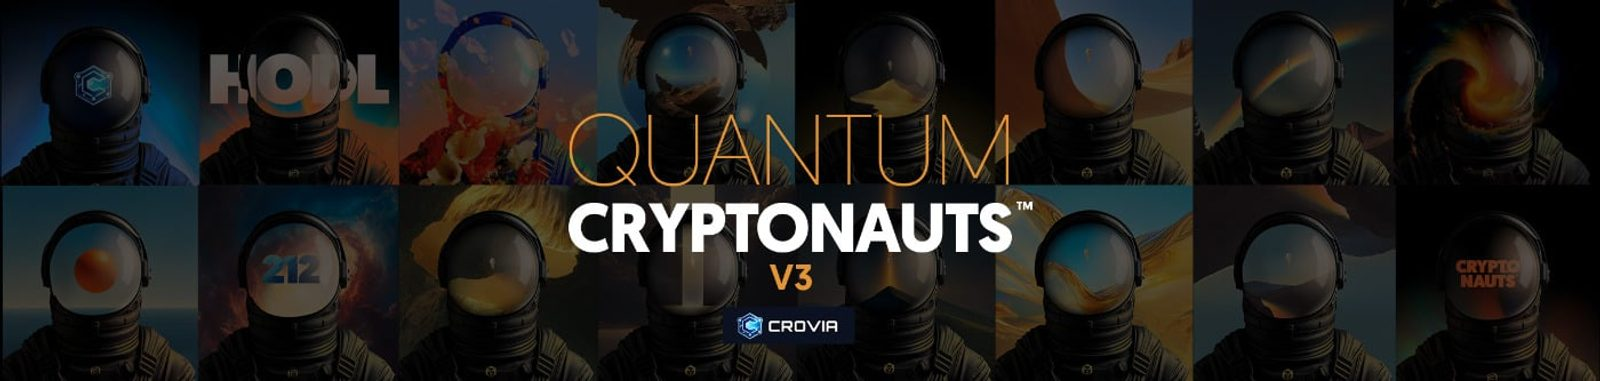
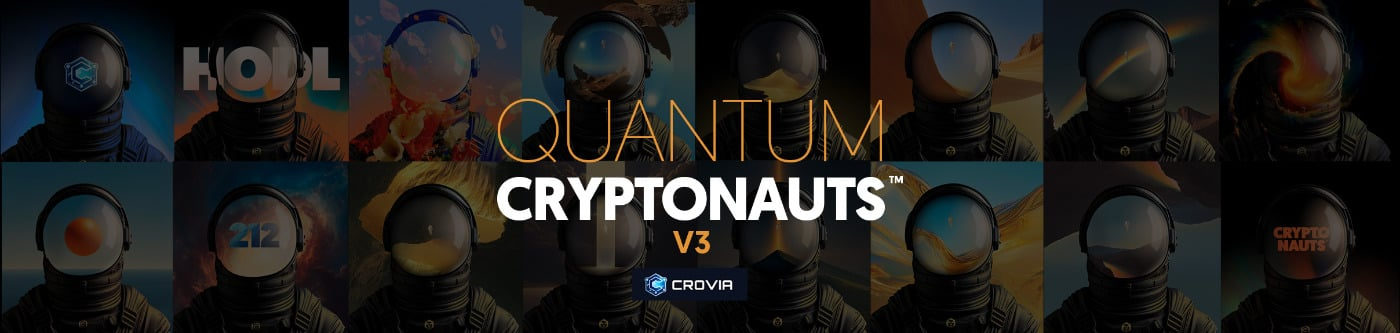
V3 (Crovia) : visuels officiels haute résolution + cache-busting
- assets/v3-logo.jpg : avatar officiel Crovia en 1024x1024 (17Ko -> 30Ko)
- assets/v3-banner.jpg : bannière officielle Crovia (re-téléchargée)
- Ajout de ?v=2 sur toutes les références (index.html Sales Bot,
  Test.js unshift, data.json) pour forcer le rafraîchissement du cache
  navigateur/CDN — l'ancienne image en cache empêchait de voir la mise à jour.

diff --git a/index.html b/index.html
@@ -3295,9 +3295,9 @@ body::after {
       const byId = {}; assets.forEach(a => { byId[a.i] = a; });
       V3_SALES.slice(0, 12).forEach(m => {
         const a = byId[m.t] || {};
-        const thumb = a.c ? ('https://images.weserv.nl/?url=ipfs.io/ipfs/' + a.c + '&w=120&h=120&fit=cover&q=70&output=jpg') : 'assets/v3-logo.jpg';
+        const thumb = a.c ? ('https://images.weserv.nl/?url=ipfs.io/ipfs/' + a.c + '&w=120&h=120&fit=cover&q=70&output=jpg') : 'assets/v3-logo.jpg?v=2';
         sales.push({
-          col: 'Quantum Cryptonauts V3', colImg: 'assets/v3-logo.jpg',
+          col: 'Quantum Cryptonauts V3', colImg: 'assets/v3-logo.jpg?v=2',
           thumb: thumb,
           link: meta.croviaUrl || 'https://crovia.app',
           asset: a.n || ('#' + m.t),

diff --git a/Test.js b/Test.js
@@ -290,7 +290,7 @@ function writeCryptonautsData(collectionsData, globalOwnerNFTs, ownersData) {
 
   // Collection externe (Crovia / Cronos) — ajoutée en tête (la plus récente). Données on-chain,
   // owners en adresses (cronoscan) ; volontairement absente de globalOwnersData (leaderboard global).
-  allCollectionsData.unshift({"id":"collection-v3","title":"Quantum Cryptonauts V3","image":"assets/v3-logo.jpg","banner":"assets/v3-banner.jpg","alt":"Quantum Cryptonauts V3 COLLECTION ICON","ownersCount":12,"external":"crovia","contract":"0x840d5e2df597ab3dcfed4e5fc883c8d87606748d","croviaUrl":"https://crovia.app/collections/0x840d5e2df597ab3dcfed4e5fc883c8d87606748d","owners":[{"name":"0x2b8b…ae40","count":32,"url":"https://cronoscan.com/address/0x2b8b37dd17fa67833b01e30229502169d1a8ae40"},{"name":"0x1355…884b","count":32,"url":"https://cronoscan.com/address/0x13550dd892ab9cb22b7a6e48d5eba0d2d181884b"},{"name":"0x740c…da0d","count":8,"url":"https://cronoscan.com/address/0x740cd1001bf468e03a2cef898c4ce880f228da0d"},{"name":"0xac96…c1ee","count":8,"url":"https://cronoscan.com/address/0xac96bdcd69f708a5f660425af5d1248aa27fc1ee"},{"name":"0x1833…1048","count":6,"url":"https://cronoscan.com/address/0x183379144e7c8581f24b02b7eedd4e9995bb1048"},{"name":"0xedce…7eae","count":5,"url":"https://cronoscan.com/address/0xedce0151656e82150a0835e9b9cbd1ec53a17eae"},{"name":"0x7886…4c06","count":3,"url":"https://cronoscan.com/address/0x7886acebc8401bd6b1cf397d84b85d01416e4c06"},{"name":"0x64c1…b5c2","count":3,"url":"https://cronoscan.com/address/0x64c15f07ea231789bf5d6f9ecc8089caae46b5c2"},{"name":"0x478f…2c49","count":2,"url":"https://cronoscan.com/address/0x478ffba8ea4945fb9327812231dfb1c6cafd2c49"},{"name":"0x8147…fb06","count":2,"url":"https://cronoscan.com/address/0x8147d4d7578e661004e25ffd3f9fd7bac1f6fb06"},{"name":"0xe6e7…34ed","count":2,"url":"https://cronoscan.com/address/0xe6e7284ddc793fdc15c8cdfbde49a2b7e2b234ed"},{"name":"0x965a…70bd","count":1,"url":"https://cronoscan.com/address/0x965a73574acb12b9b48f3ff43415eea791fd70bd"}]});
+  allCollectionsData.unshift({"id":"collection-v3","title":"Quantum Cryptonauts V3","image":"assets/v3-logo.jpg?v=2","banner":"assets/v3-banner.jpg?v=2","alt":"Quantum Cryptonauts V3 COLLECTION ICON","ownersCount":12,"external":"crovia","contract":"0x840d5e2df597ab3dcfed4e5fc883c8d87606748d","croviaUrl":"https://crovia.app/collections/0x840d5e2df597ab3dcfed4e5fc883c8d87606748d","owners":[{"name":"0x2b8b…ae40","count":32,"url":"https://cronoscan.com/address/0x2b8b37dd17fa67833b01e30229502169d1a8ae40"},{"name":"0x1355…884b","count":32,"url":"https://cronoscan.com/address/0x13550dd892ab9cb22b7a6e48d5eba0d2d181884b"},{"name":"0x740c…da0d","count":8,"url":"https://cronoscan.com/address/0x740cd1001bf468e03a2cef898c4ce880f228da0d"},{"name":"0xac96…c1ee","count":8,"url":"https://cronoscan.com/address/0xac96bdcd69f708a5f660425af5d1248aa27fc1ee"},{"name":"0x1833…1048","count":6,"url":"https://cronoscan.com/address/0x183379144e7c8581f24b02b7eedd4e9995bb1048"},{"name":"0xedce…7eae","count":5,"url":"https://cronoscan.com/address/0xedce0151656e82150a0835e9b9cbd1ec53a17eae"},{"name":"0x7886…4c06","count":3,"url":"https://cronoscan.com/address/0x7886acebc8401bd6b1cf397d84b85d01416e4c06"},{"name":"0x64c1…b5c2","count":3,"url":"https://cronoscan.com/address/0x64c15f07ea231789bf5d6f9ecc8089caae46b5c2"},{"name":"0x478f…2c49","count":2,"url":"https://cronoscan.com/address/0x478ffba8ea4945fb9327812231dfb1c6cafd2c49"},{"name":"0x8147…fb06","count":2,"url":"https://cronoscan.com/address/0x8147d4d7578e661004e25ffd3f9fd7bac1f6fb06"},{"name":"0xe6e7…34ed","count":2,"url":"https://cronoscan.com/address/0xe6e7284ddc793fdc15c8cdfbde49a2b7e2b234ed"},{"name":"0x965a…70bd","count":1,"url":"https://cronoscan.com/address/0x965a73574acb12b9b48f3ff43415eea791fd70bd"}]});
 
   // Prepare globalOwnersData (sans url ni rank : reconstruits/recalculés côté client)
   const globalOwnersData = assignRanks(Object.entries(globalOwnerNFTs)).map(({ name, count }) => {